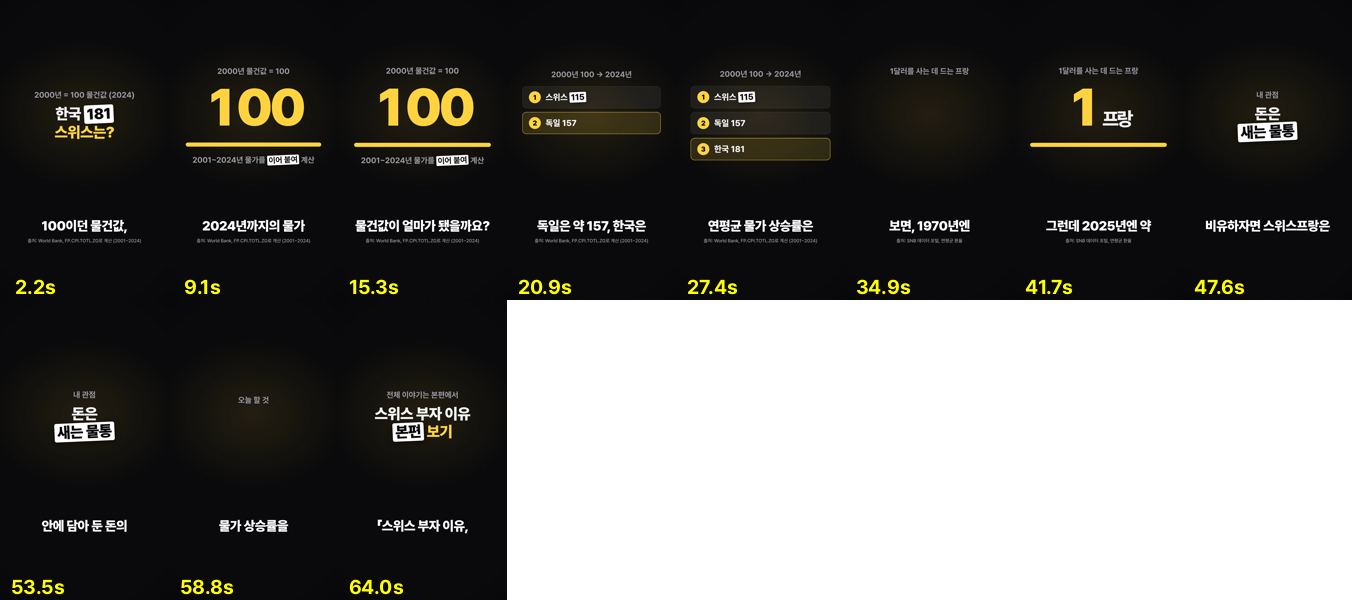
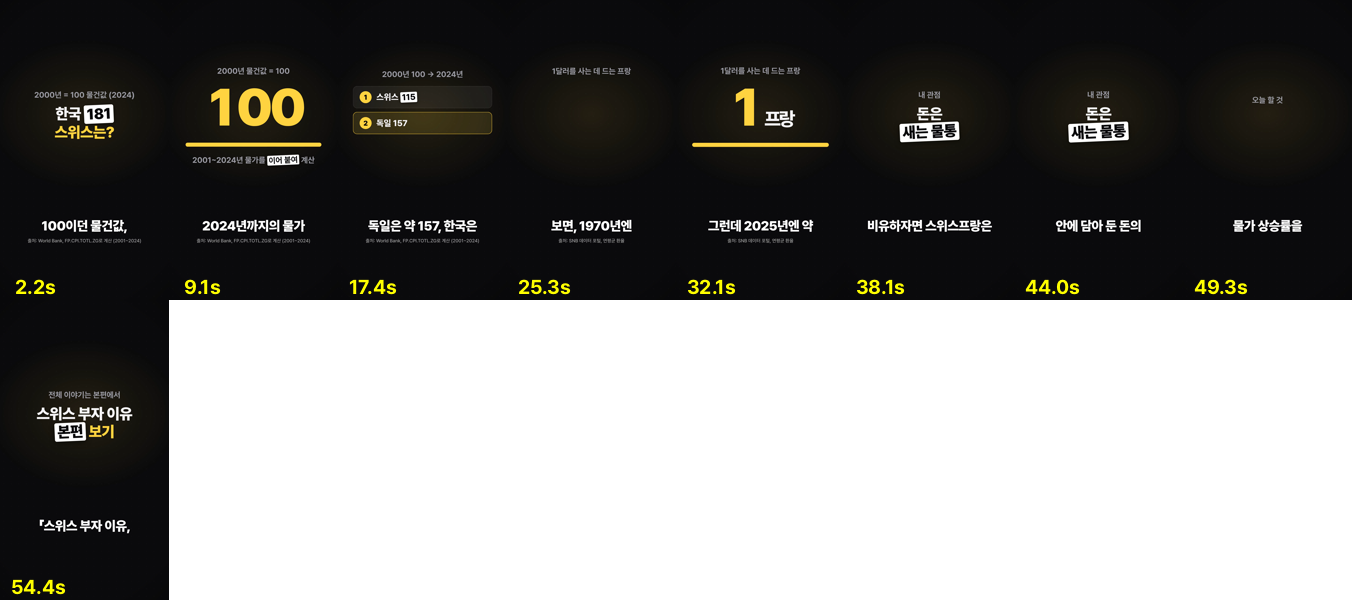
스위스 쇼츠2 57초판, 발음 기록
Claude-Session: https://claude.ai/code/session_01FimgvnFwUXoVfoVUHJw6eG

diff --git a/neural-studio/output/oneshot_swiss_short2/qc_report.md b/neural-studio/output/oneshot_swiss_short2/qc_report.md
@@ -1,11 +1,11 @@
 # 품질검수 보고서
 
-- 파일: `final.mp4`  길이 67.23초
-- 음량: -15.0 LUFS (목표 -14), 피크 -4.160958 dB
+- 파일: `final.mp4`  길이 57.67초
+- 음량: -14.9 LUFS (목표 -14), 피크 -4.211149 dB
 
 | 항목 | 결과 |
 |---|---|
-| 음성↔대본 일치(완성본 재인식) | ✅ 불일치 0/11 구간 (CER>0.3) |
+| 음성↔대본 일치(완성본 재인식) | ✅ 불일치 0/9 구간 (CER>0.3) |
 | TTS 자동 재생성 | 0구간 재생성 후 최적본 채택 |
 | 소리 끊김 | ✅ 0건 |
 | 화면 멈춤(2.0초 이상) | ⚠ 5건 |
@@ -18,29 +18,27 @@
 |---|---|---|---|---|
 | 0.15 | 2000년에 100이던 물건값, 한국은 181입니다. | 이천 년에 백 이던 물건값, 한국은 백팔십일 입니다. | 2000년대백이던물건값한국은 180일입니다. | 0.05 |
 | 4.78 | 세계은행 자료로, 2001년부터 2024년까지의 물가 상승률을 이어 붙여 직접 계산해 봤습니다. | 세계은행 자료로, 이천일 년부터 이천이십사 년까지의 물가 상승률을 이어 붙여 직접 계산해 봤습니다. | 세계은행자료로 2001년부터 2024년까지의물가상승률을이어붙어직접계산해봤습니다. | 0.024 |
-| 13.68 | 2000년에 100이던 물건값이 얼마가 됐을까요? | 이천 년에 백 이던 물건값이 얼마가 됐을까요? | 이천년에백이던물건값이얼마가됐을까요? | 0.0 |
-| 17.52 | 스위스는 약 115, 독일은 약 157, 한국은 약 181이었습니다. | 스위스는 약 백십오 독일은 약 백오십칠 한국은 약 백팔십일 이었습니다. | 스위스는약 115도길은약 157 한국은약 180일이었습니다. | 0.069 |
-| 24.5 | 같은 기간 스위스의 연평균 물가 상승률은 0.6% 정도에 불과했죠. | 같은 기간 스위스의 연평균 물가 상승률은 영 점 육 퍼센트 정도에 불과했죠. | 같은기간수위스에연평균물가상승률은 0.6 퍼센트정도에불과했죠. | 0.067 |
-| 30.95 | 스위스 국립은행 자료로 보면, 1970년엔 1달러를 사는 데 약 4.31프랑이 들었습니다. | 스위스 국립은행 자료로 보면, 천구백칠십 년엔 한 달러를 사는 데 약 사 점 삼일 프랑이 들었습니다. | 스위스국립은행자료로보면 1970년은한달로를사는데약 4.3일프랑이들었습니다. | 0.051 |
-| 39.05 | 그런데 2025년엔 약 0.83프랑이면 되죠. | 그런데 이천이십오 년엔 약 영 점 팔삼 프랑이면 되죠. | 그런데 2015년약영점팔 3이면되죠? | 0.19 |
-| 44.88 | 비유하자면 스위스프랑은 잘 새지 않는 물통입니다. | 비유하자면 스위스프랑은 잘 새지 않는 물통입니다. | 비유하자면스위스프랑은잘세지않는물통입니다. | 0.048 |
-| 50.58 | 물가라는 구멍이 작으니, 안에 담아 둔 돈의 가치가 덜 빠져나가죠. | 물가라는 구멍이 작으니, 안에 담아 둔 돈의 가치가 덜 빠져나가죠. | 물가라는구멍이작으니안에다가둔돈이가치가덜빠져나가져. | 0.154 |
-| 57.08 | 내 예금 금리와 물가 상승률을 나란히 적어 보세요. | 내 예금 금리와 물가 상승률을 나란히 적어 보세요. | 내근금리와물가상승률을나란히적어보세요. | 0.1 |
-| 61.15 | 전체 이야기는 본편 「스위스 부자 이유, 비밀 은행이 아니었다」에서 보실 수 있어요. | 전체 이야기는 본편 스위스 부자 이유, 비밀 은행이 아니었다에서 보실 수 있어요. | 전체이야기는본편스위스부자이유. 비밀은행이아니였다해서보실수있어요. | 0.062 |
+| 14.05 | 스위스는 약 115, 독일은 약 157, 한국은 약 181이었습니다. | 스위스는 약 백십오 독일은 약 백오십칠 한국은 약 백팔십일 이었습니다. | 스위스는약 115도길은약 157 한국은약 180일이었습니다. | 0.069 |
+| 21.38 | 스위스 국립은행 자료로 보면, 1970년엔 1달러를 사는 데 약 4.31프랑이 들었습니다. | 스위스 국립은행 자료로 보면, 천구백칠십 년엔 한 달러를 사는 데 약 사 점 삼일 프랑이 들었습니다. | 스위스국립은행자료로보면 1970년은한달로를사는데약 4.3일프랑이들었습니다. | 0.051 |
+| 29.48 | 그런데 2025년엔 약 0.83프랑이면 되죠. | 그런데 이천이십오 년엔 약 영 점 팔삼 프랑이면 되죠. | 그런데 2015년약영점팔 3이면되죠? | 0.19 |
+| 35.32 | 비유하자면 스위스프랑은 잘 새지 않는 물통입니다. | 비유하자면 스위스프랑은 잘 새지 않는 물통입니다. | 비유하자면스위스프랑은잘세지않는물통입니다. | 0.048 |
+| 41.02 | 물가라는 구멍이 작으니, 안에 담아 둔 돈의 가치가 덜 빠져나가죠. | 물가라는 구멍이 작으니, 안에 담아 둔 돈의 가치가 덜 빠져나가죠. | 물가라는구멍이작으니안에다가둔돈이가치가덜빠져나가져. | 0.154 |
+| 47.52 | 내 예금 금리와 물가 상승률을 나란히 적어 보세요. | 내 예금 금리와 물가 상승률을 나란히 적어 보세요. | 내예금금리와물가상승률을나란히적어보세요. | 0.0 |
+| 51.58 | 전체 이야기는 본편 「스위스 부자 이유, 비밀 은행이 아니었다」에서 보실 수 있어요. | 전체 이야기는 본편 스위스 부자 이유, 비밀 은행이 아니었다에서 보실 수 있어요. | 전체이야기는본편스위스부자이유. 비밀은행이아니였다해서보실수있어요. | 0.062 |
 
 ## 화면 멈춤
-- (32.4, 35.1)
-- (40.4333, 42.6667)
-- (46.0, 48.7667)
-- (50.6, 53.1667)
-- (54.6333, 56.9333)
+- (22.8333, 25.5333)
+- (30.8667, 33.1)
+- (36.4333, 39.2)
+- (41.0333, 43.6)
+- (45.0667, 47.3667)
 
 ## 쇼츠 공장 원칙 점검 (01~06)
-- ⚠ [02] 길이 67.2초 (기준 40~50초, short)
+- ⚠ [02] 길이 57.7초 (기준 40~50초, short)
 - ⚠ [02] 역할 순서가 hook→twist→core→pov→todo→end 가 아님
-- ⚠ 내레이션 속도 4.8음절/초 (권장 6.8~8.6)
+- ⚠ 내레이션 속도 4.7음절/초 (권장 6.8~8.6)
 
-- 내레이션 속도 4.8음절/초, 효과음 13개
+- 내레이션 속도 4.7음절/초, 효과음 13개
 
 ## 내 관점 줄 (원칙 05 — 현철님이 직접 손봐 주세요)
 > 비유하자면 스위스프랑은 잘 새지 않는 물통입니다. 물가라는 구멍이 작으니, 안에 담아 둔 돈의 가치가 덜 빠져나가죠.

diff --git a/neural-studio/release/oneshot_swiss_short2/버전기록.md b/neural-studio/release/oneshot_swiss_short2/버전기록.md
@@ -3,3 +3,4 @@
 | 버전 | 날짜 | 길이 | 검수 | 바뀐 점 |
 |---|---|---|---|---|
 | v1 | 2026-11-14 | 1:07 | 음성불일치 0 · 끊김 0 · 멈춤 5 · 검은화면 0 · 개인정보 0 · 자막 0 | 시리즈 쇼츠 첫 빌드 |
+| v2 | 2026-11-14 | 0:57 | 음성불일치 0 · 끊김 0 · 멈춤 5 · 검은화면 0 · 개인정보 0 · 자막 0 | 60초 안으로 줄임 |
